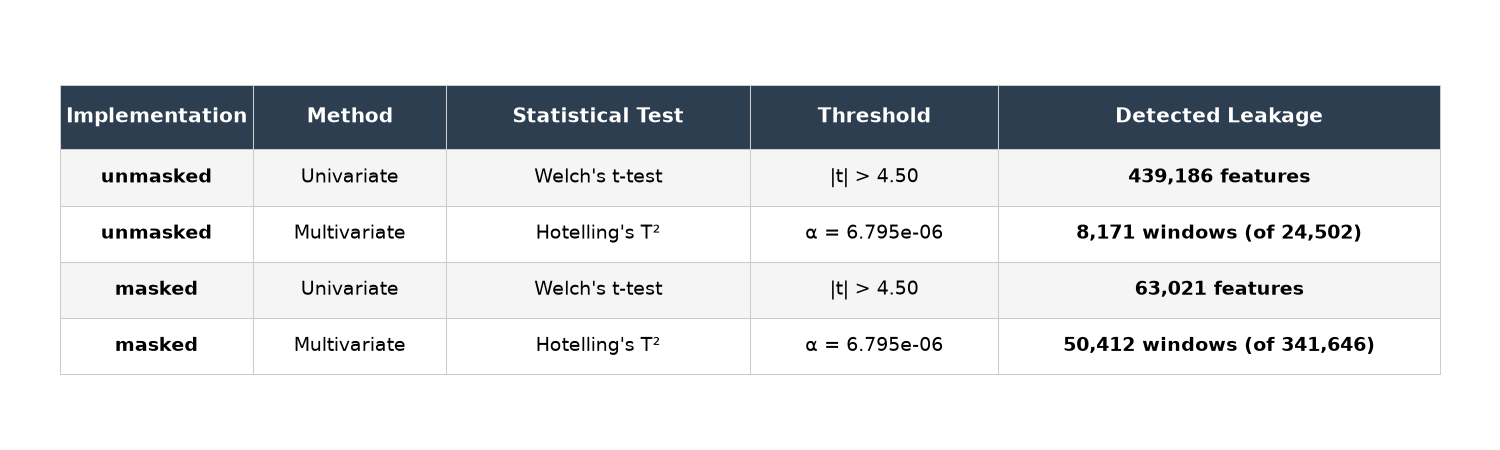
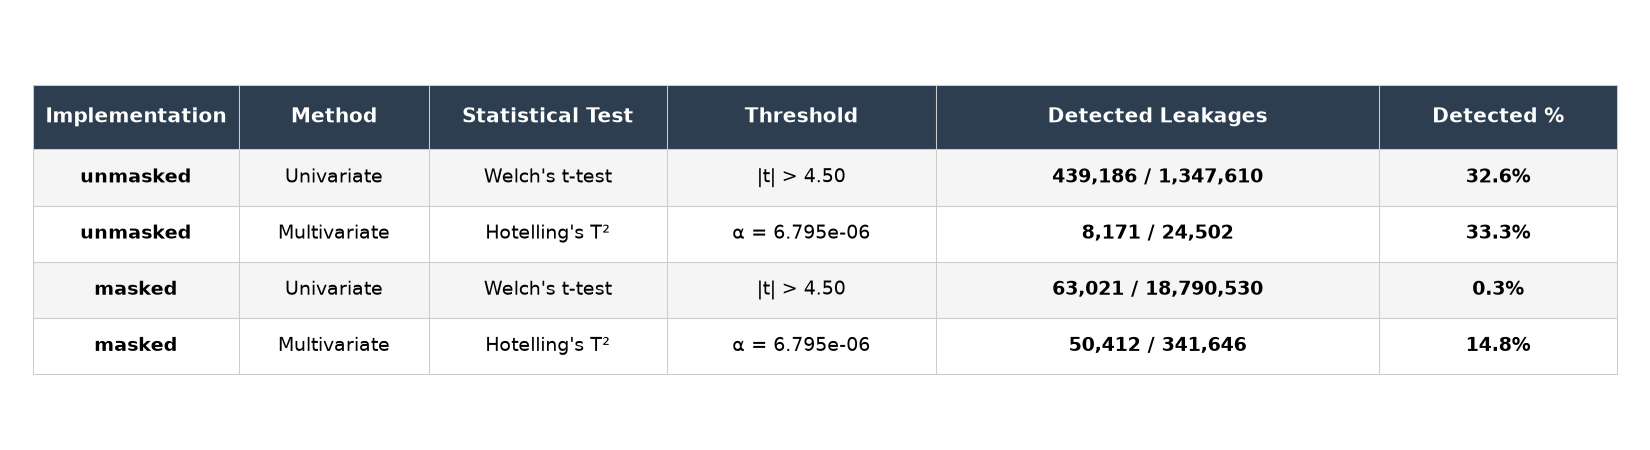
Add detected/total and Detected % columns to tvla_table.png
- Detected Leakage column now shows the leak fraction as 'detected / total'
  (univariate: features tested; multivariate: windows tested).
- Added a Detected % column giving the same as a percentage, matching the
  new percent-normalized summary chart and giving a fair comparison across
  versions (which have very different totals).
- Widen figure to (11,3) and rebalance column widths for the extra column.

diff --git a/tvla_analysis.py b/tvla_analysis.py
@@ -437,7 +437,13 @@ def _make_table_figure(results, args):
     """Save a compact table summarising leakage detection results.
 
     4 rows: unmasked/masked × univariate/multivariate.
-    Columns: Implementation, Method, Statistical Test, Threshold, Detected Leakage.
+    Columns: Implementation, Method, Statistical Test, Threshold, Detected Leakages,
+    Detected %.
+
+    The "Detected Leakages" column shows the count of detected leakage as a fraction
+    of the total items tested ("detected / total"), and the "Detected %" column gives
+    the same as a percentage -- the fair, comparable metric across versions (which have
+    very different totals to test).
     """
     import matplotlib.pyplot as plt
     from matplotlib.font_manager import FontProperties
@@ -451,9 +457,12 @@ def _make_table_figure(results, args):
         # Univariate row
         uni_label = "Welch's t-test"
         uni_thresh = "|t| > {:.2f}".format(threshold)
-        uni_leak = "{:,} features".format(r["univariate"])
+        uni_total = r["t_stats"].shape[0]
+        uni_leak = "{:,} / {:,}".format(r["univariate"], uni_total)
+        uni_pct = r["univariate"] / uni_total * 100 if uni_total > 0 else 0
+        uni_pct_str = "{:.1f}%".format(uni_pct)
         method = "Univariate"
-        rows_data.append((name, method, uni_label, uni_thresh, uni_leak))
+        rows_data.append((name, method, uni_label, uni_thresh, uni_leak, uni_pct_str))
 
         # Multivariate row
         mv_label = "Hotelling's T\u00b2"
@@ -462,20 +471,24 @@ def _make_table_figure(results, args):
         d = args.second_order_window_size * (args.second_order_window_size + 1) // 2 if order2 else args.window_size
         alpha_str = "{:.3e}".format(alpha)
         mv_thresh = "\u03b1 = {}".format(alpha_str)
-        mv_leak = "{:,} windows (of {:,})".format(r["multivariate"], r["n_windows"])
+        mv_total = r["n_windows"]
+        mv_leak = "{:,} / {:,}".format(r["multivariate"], mv_total)
+        mv_pct = r["multivariate"] / mv_total * 100 if mv_total > 0 else 0
+        mv_pct_str = "{:.1f}%".format(mv_pct)
         method = "Multivariate"
-        rows_data.append((name, method, mv_label, mv_thresh, mv_leak))
+        rows_data.append((name, method, mv_label, mv_thresh, mv_leak, mv_pct_str))
 
-    col_labels = ["Implementation", "Method", "Statistical Test", "Threshold", "Detected Leakage"]
+    col_labels = ["Implementation", "Method", "Statistical Test", "Threshold",
+                  "Detected Leakages", "Detected %"]
     num_rows = len(rows_data) + 1
     row_colors = ["#f5f5f5", "#ffffff"] * 10
 
     grid = [col_labels] + [[cell for cell in row] for row in rows_data]
 
-    fig, ax = plt.subplots(figsize=(10, 3))
+    fig, ax = plt.subplots(figsize=(11, 3))
     ax.axis("off")
 
-    col_widths = [0.14, 0.14, 0.22, 0.18, 0.32]
+    col_widths = [0.13, 0.12, 0.15, 0.17, 0.28, 0.15]
     table = ax.table(cellText=grid, cellLoc="center", colWidths=col_widths, loc="center")
     table.auto_set_font_size(False)
 
@@ -493,12 +506,12 @@ def _make_table_figure(results, args):
             cell.set_facecolor(row_colors[r - 1])
             if c == 0:
                 cell.set_text_props(fontweight="bold")
-            if c == 4:
+            if c in (4, 5):
                 cell.set_text_props(fontweight="bold")
         cell.set_edgecolor("#cccccc")
         cell.set_linewidth(0.5)
 
-    fig.subplots_adjust(left=0.04, right=0.96, top=0.88, bottom=0.1)
+    fig.subplots_adjust(left=0.02, right=0.98, top=0.88, bottom=0.1)
     return fig
 
 
